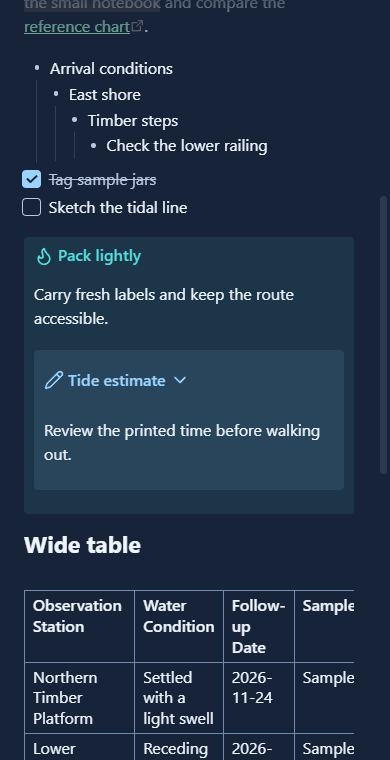
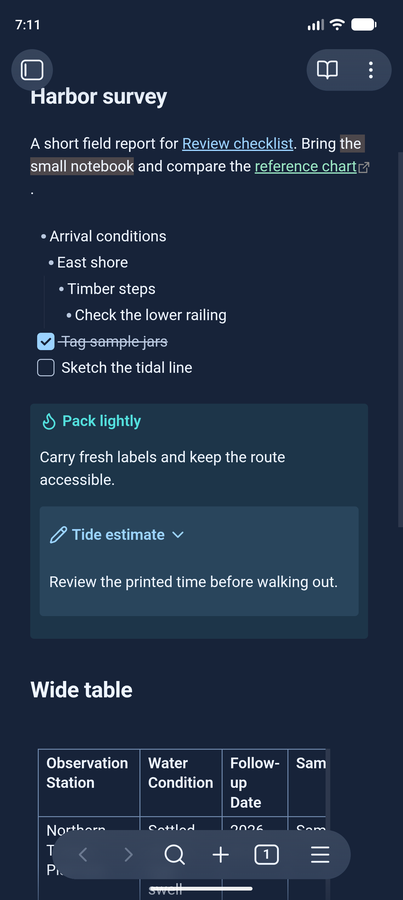
Record Pocket Mobile on Android Obsidian

diff --git a/docs/ui-qa/2026-11-24/README.md b/docs/ui-qa/2026-11-24/README.md
@@ -25,18 +25,32 @@ Obsidian's built-in mobile emulation provided the actual Obsidian phone layout i
 | Canvas, Bases and graph | Dark Canvas rendered the three fixture nodes and controls on phone and desktop. Light Bases rendered its local table and rows on both layouts. The desktop Graph view rendered its canvas and controls. |
 | Workspace panels | Desktop Outline and file properties displayed the fixture headings and metadata. |
 
-The desktop checks used the live Obsidian renderer. Phone actions used Obsidian controls in its mobile layout. Scrolling was verified through element scroll positions. Android and iOS touch delivery, keyboard, and safe-area behavior require native app coverage.
+The Windows phone checks used Obsidian controls in its mobile layout. Scrolling was verified through element scroll positions.
+
+## Native Android follow-up
+
+Obsidian 1.15.1 (build 404) ran on the retained Pixel_2 Android 17 emulator, API 37, with a 1,280 × 2,856 display at 480 dpi. The guest had no existing Obsidian install. The official APK matched its published SHA-256 digest and passed Android APK Signature Scheme v2 verification. The theme was loaded from a new synthetic local vault containing the 3.6.2 manifest and stylesheet. [Official Obsidian release](https://github.com/obsidianmd/obsidian-releases/releases/tag/v1.15.1)
+
+| Native case | Result |
+| --- | --- |
+| Local vault and file explorer | A tap selected the synthetic note. The dark theme showed its properties, checked and unchecked tasks, and nested lists. The long folder title wrapped across two lines. |
+| Nested callout | A tap on Tide estimate expanded the collapsed callout and displayed its text. |
+| Wide table | A horizontal swipe exposed Sample Reference in Live Preview. A second check in Reading view exposed the later columns without shifting the headings. |
+| Wide code | In Reading view the long JavaScript line stayed on one line. A horizontal swipe revealed the middle of the identifier inside its own block. |
+| Editing and keyboard | A tap switched to editing and placed the cursor in a list. The editor toolbar was visible above Gboard. Android reported `mInputShown=true`. The emulator keyboard preference was restored to its original value. |
+
+The guest lost its ADB connection during onboarding. The same running emulator reconnected without a restart, and the native checks finished. Obsidian was stopped afterward and Pixel_2 stayed online. Physical Android and iOS, native landscape, and device-specific safe areas remain unverified.
 
 ## Screenshots
 
-These ten original Obsidian PNG captures total 388,876 bytes. The captures show only synthetic test data.
+These ten Obsidian PNG captures total 536,929 bytes and show only synthetic test data. The two Android captures were resized for display.
 
 | Capture | State | Dimensions |
 | --- | --- | --- |
 | [01](01-dark-phone-reading.png) | Dark phone reading, properties and nested lists | 390 × 760 |
-| [02](02-dark-phone-nested-callout.png) | Dark phone expanded nested callout | 390 × 760 |
+| [02](02-dark-phone-nested-callout.png) | Dark Android expanded nested callout | 403 × 900 |
 | [03](03-dark-phone-wide-table.png) | Dark phone reading table scrolled sideways | 390 × 760 |
-| [04](04-dark-phone-wide-code.png) | Dark phone reading code block scrolled sideways | 390 × 760 |
+| [04](04-dark-phone-wide-code.png) | Dark Android reading table and code block after horizontal swipes | 403 × 900 |
 | [05](05-light-phone-live-preview.png) | Light phone Live Preview and editor toolbar | 390 × 760 |
 | [06](06-light-phone-source-selection.png) | Light phone source selection and toolbar at reduced height | 390 × 460 |
 | [07](07-light-phone-files.png) | Light phone file and folder names wrapped in the explorer | 390 × 760 |
